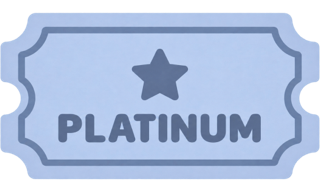
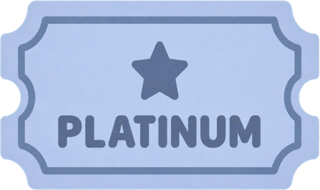
feat: 등급 응모권 그림 교체와 지갑 등급 한 줄·간단한 지갑 추가

diff --git a/src/widgets/ticketWallet/ui/TicketWallet.tsx b/src/widgets/ticketWallet/ui/TicketWallet.tsx
@@ -89,13 +89,13 @@ export function TicketWallet({ now, action }: TicketWalletProps) {
                      */}
                     {(tickets || ticketsQuery.isPending) && (
                         <ul
-                            className="divide-border-default mt-4 grid grid-cols-3 divide-x"
+                            className="divide-border-default mt-4 grid grid-cols-4 divide-x"
                             aria-label="등급별 보유 응모권"
                         >
                             {TICKET_GRADES.map((grade) => (
                                 <li
                                     key={grade}
-                                    className="flex flex-col items-center gap-1 px-1.5 pt-2 pb-1.5"
+                                    className="flex min-w-0 flex-col items-center gap-1 px-1 pt-2 pb-1.5"
                                 >
                                     <img
                                         src={TICKET_GRADE_IMAGE[grade]}
@@ -146,6 +146,56 @@ export function TicketWallet({ now, action }: TicketWalletProps) {
                         </Link>
                     </div>
                 </div>
+            </div>
+        </div>
+    );
+}
+
+/**
+ * 간단한 지갑 — 겟또타임 머리처럼 지갑보다 아래 목록이 중요한 곳에서 한 줄로 쓴다.
+ * 사용 가능 장수와 등급별 장수, 바로가기만 두고 이번 달 합계·캐릭터·절취선은 뺀다 (자세한 건 미션 페이지 지갑)
+ */
+export function TicketWalletCompact({ action }: Pick<TicketWalletProps, 'action'>) {
+    const ticketsQuery = useMyTickets();
+    const tickets = ticketsQuery.data;
+    const format = (n: number | undefined) =>
+        n == null ? <SkeletonText className="w-5" /> : formatNumber(n);
+
+    return (
+        <div className="bg-surface-page flex flex-wrap items-center gap-x-5 gap-y-3 rounded-2xl px-5 py-4 shadow-[0_1px_2px_rgb(from_var(--color-ink)_r_g_b_/_0.1)]">
+            <div className="flex flex-col">
+                <p className="text-caption text-fg-secondary flex items-center gap-1">
+                    사용 가능 응모권
+                    <TicketGradeInfo />
+                </p>
+                <p className="text-title-3 text-fg-primary tabular-nums">
+                    {format(tickets?.availableCount)}장
+                </p>
+            </div>
+            <ul
+                aria-label="등급별 보유 응모권"
+                className="border-border-default flex items-center gap-3 border-l pl-5"
+            >
+                {TICKET_GRADES.map((grade) => (
+                    <li key={grade} className="flex items-center gap-1.5">
+                        <img src={TICKET_GRADE_IMAGE[grade]} alt="" className="h-auto w-7" />
+                        <span className="sr-only">{TICKET_GRADE_LABEL[grade]}</span>
+                        <span className="text-body-sm-bold text-fg-primary tabular-nums">
+                            {format(tickets?.countByGrade[grade])}
+                        </span>
+                    </li>
+                ))}
+            </ul>
+            <Link
+                to={action.to}
+                className="text-body-sm-bold text-fg-primary focus-visible:ring-border-focus ml-auto flex shrink-0 items-center gap-0.5 rounded-sm whitespace-nowrap hover:underline focus-visible:ring-2 focus-visible:outline-none"
+            >
+                {action.label}
+                <ChevronRight className="size-4" />
+            </Link>
+            {/* 조회 실패 안내는 줄을 바꿔 아래에 — 평소에는 아무것도 그리지 않아 칸이 생기지 않는다 */}
+            <div className="basis-full empty:hidden">
+                <TicketBalanceStatus query={ticketsQuery} />
             </div>
         </div>
     );

diff --git a/src/entities/ticket/model/gradeImage.ts b/src/entities/ticket/model/gradeImage.ts
@@ -5,12 +5,11 @@ import gold from '../assets/ticket-gold.png';
 import platinum from '../assets/ticket-platinum.png';
 import silver from '../assets/ticket-silver.png';
 
-/** 등급별 응모권 그림 — 피그마 image 193 (가로 5 : 세로 3, 투명 바탕) */
+/** 등급별 응모권 그림 — 피그마 image 278 네 장을 한 장씩 잘랐다 (가로 5 : 세로 3, 투명 바탕) */
 export const TICKET_GRADE_IMAGE: Record<TicketGrade, string> = {
     BRONZE: bronze,
     SILVER: silver,
     GOLD: gold,
-    // 피그마 image 260 — 같은 5:3 비율로 잘라 다른 등급 그림과 크기를 맞췄다
     PLATINUM: platinum,
 };
 

diff --git a/src/widgets/ticketWallet/index.ts b/src/widgets/ticketWallet/index.ts
@@ -1,1 +1,1 @@
-export { TicketWallet } from './ui/TicketWallet';
+export { TicketWallet, TicketWalletCompact } from './ui/TicketWallet';
